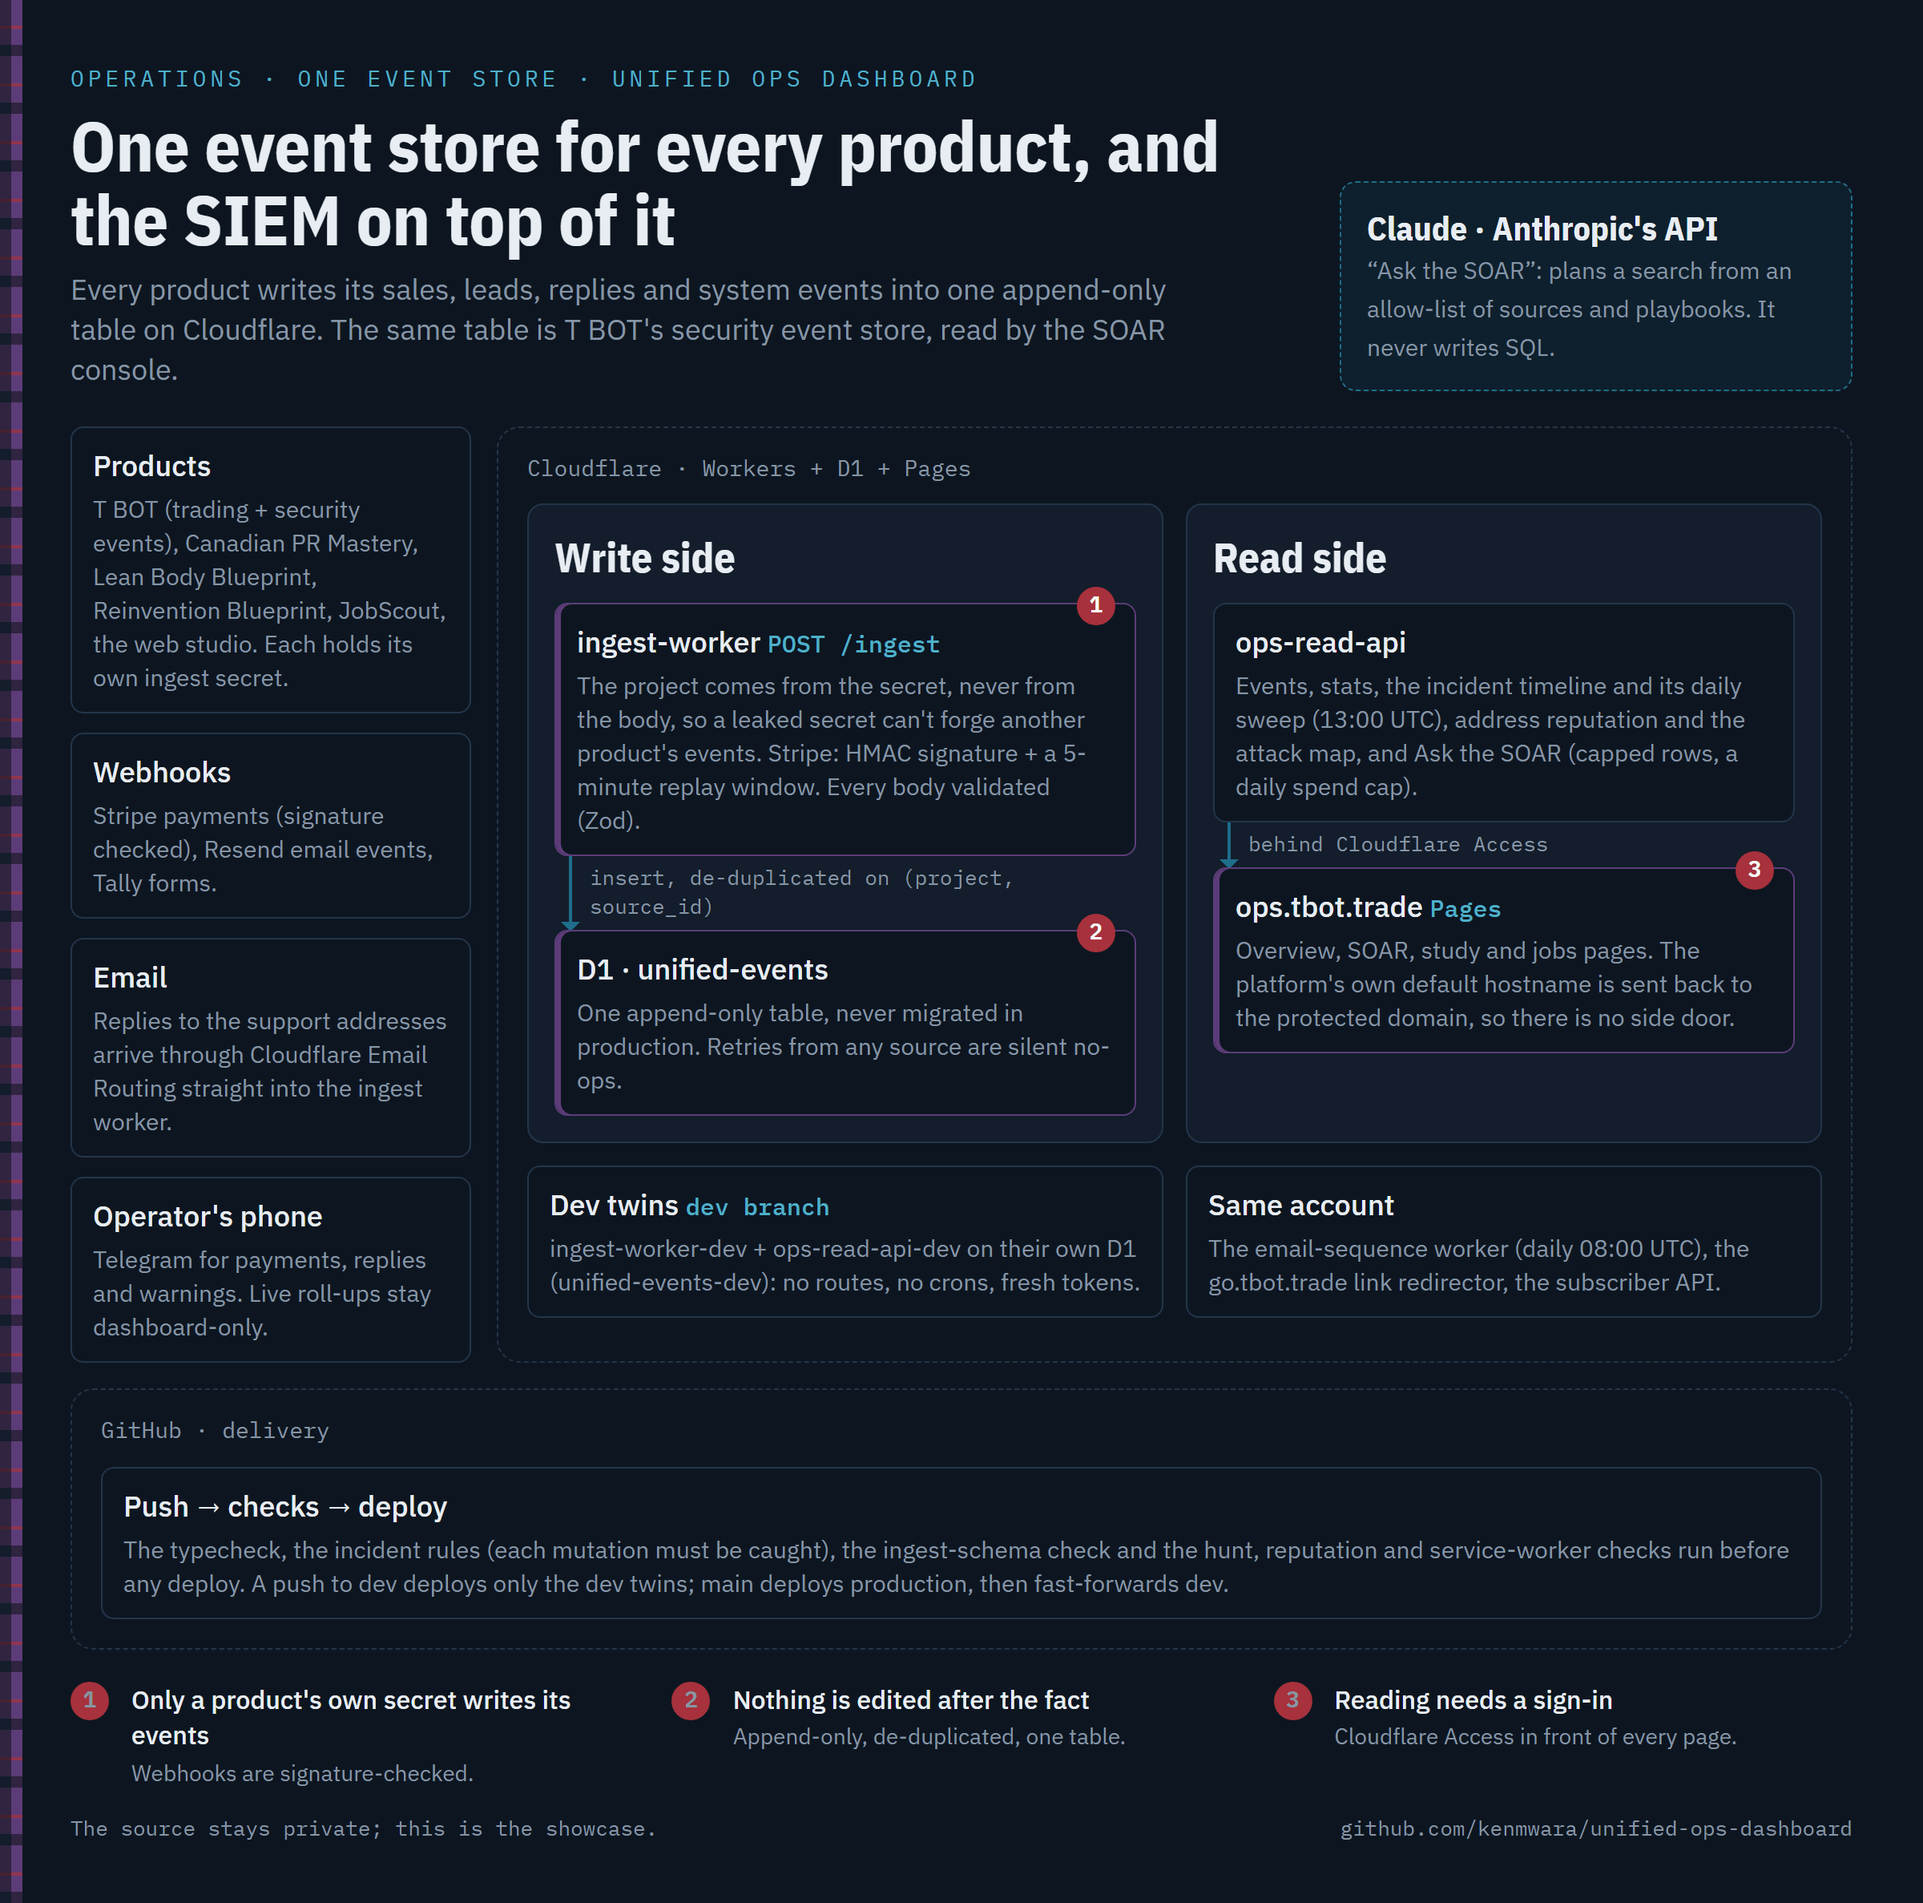
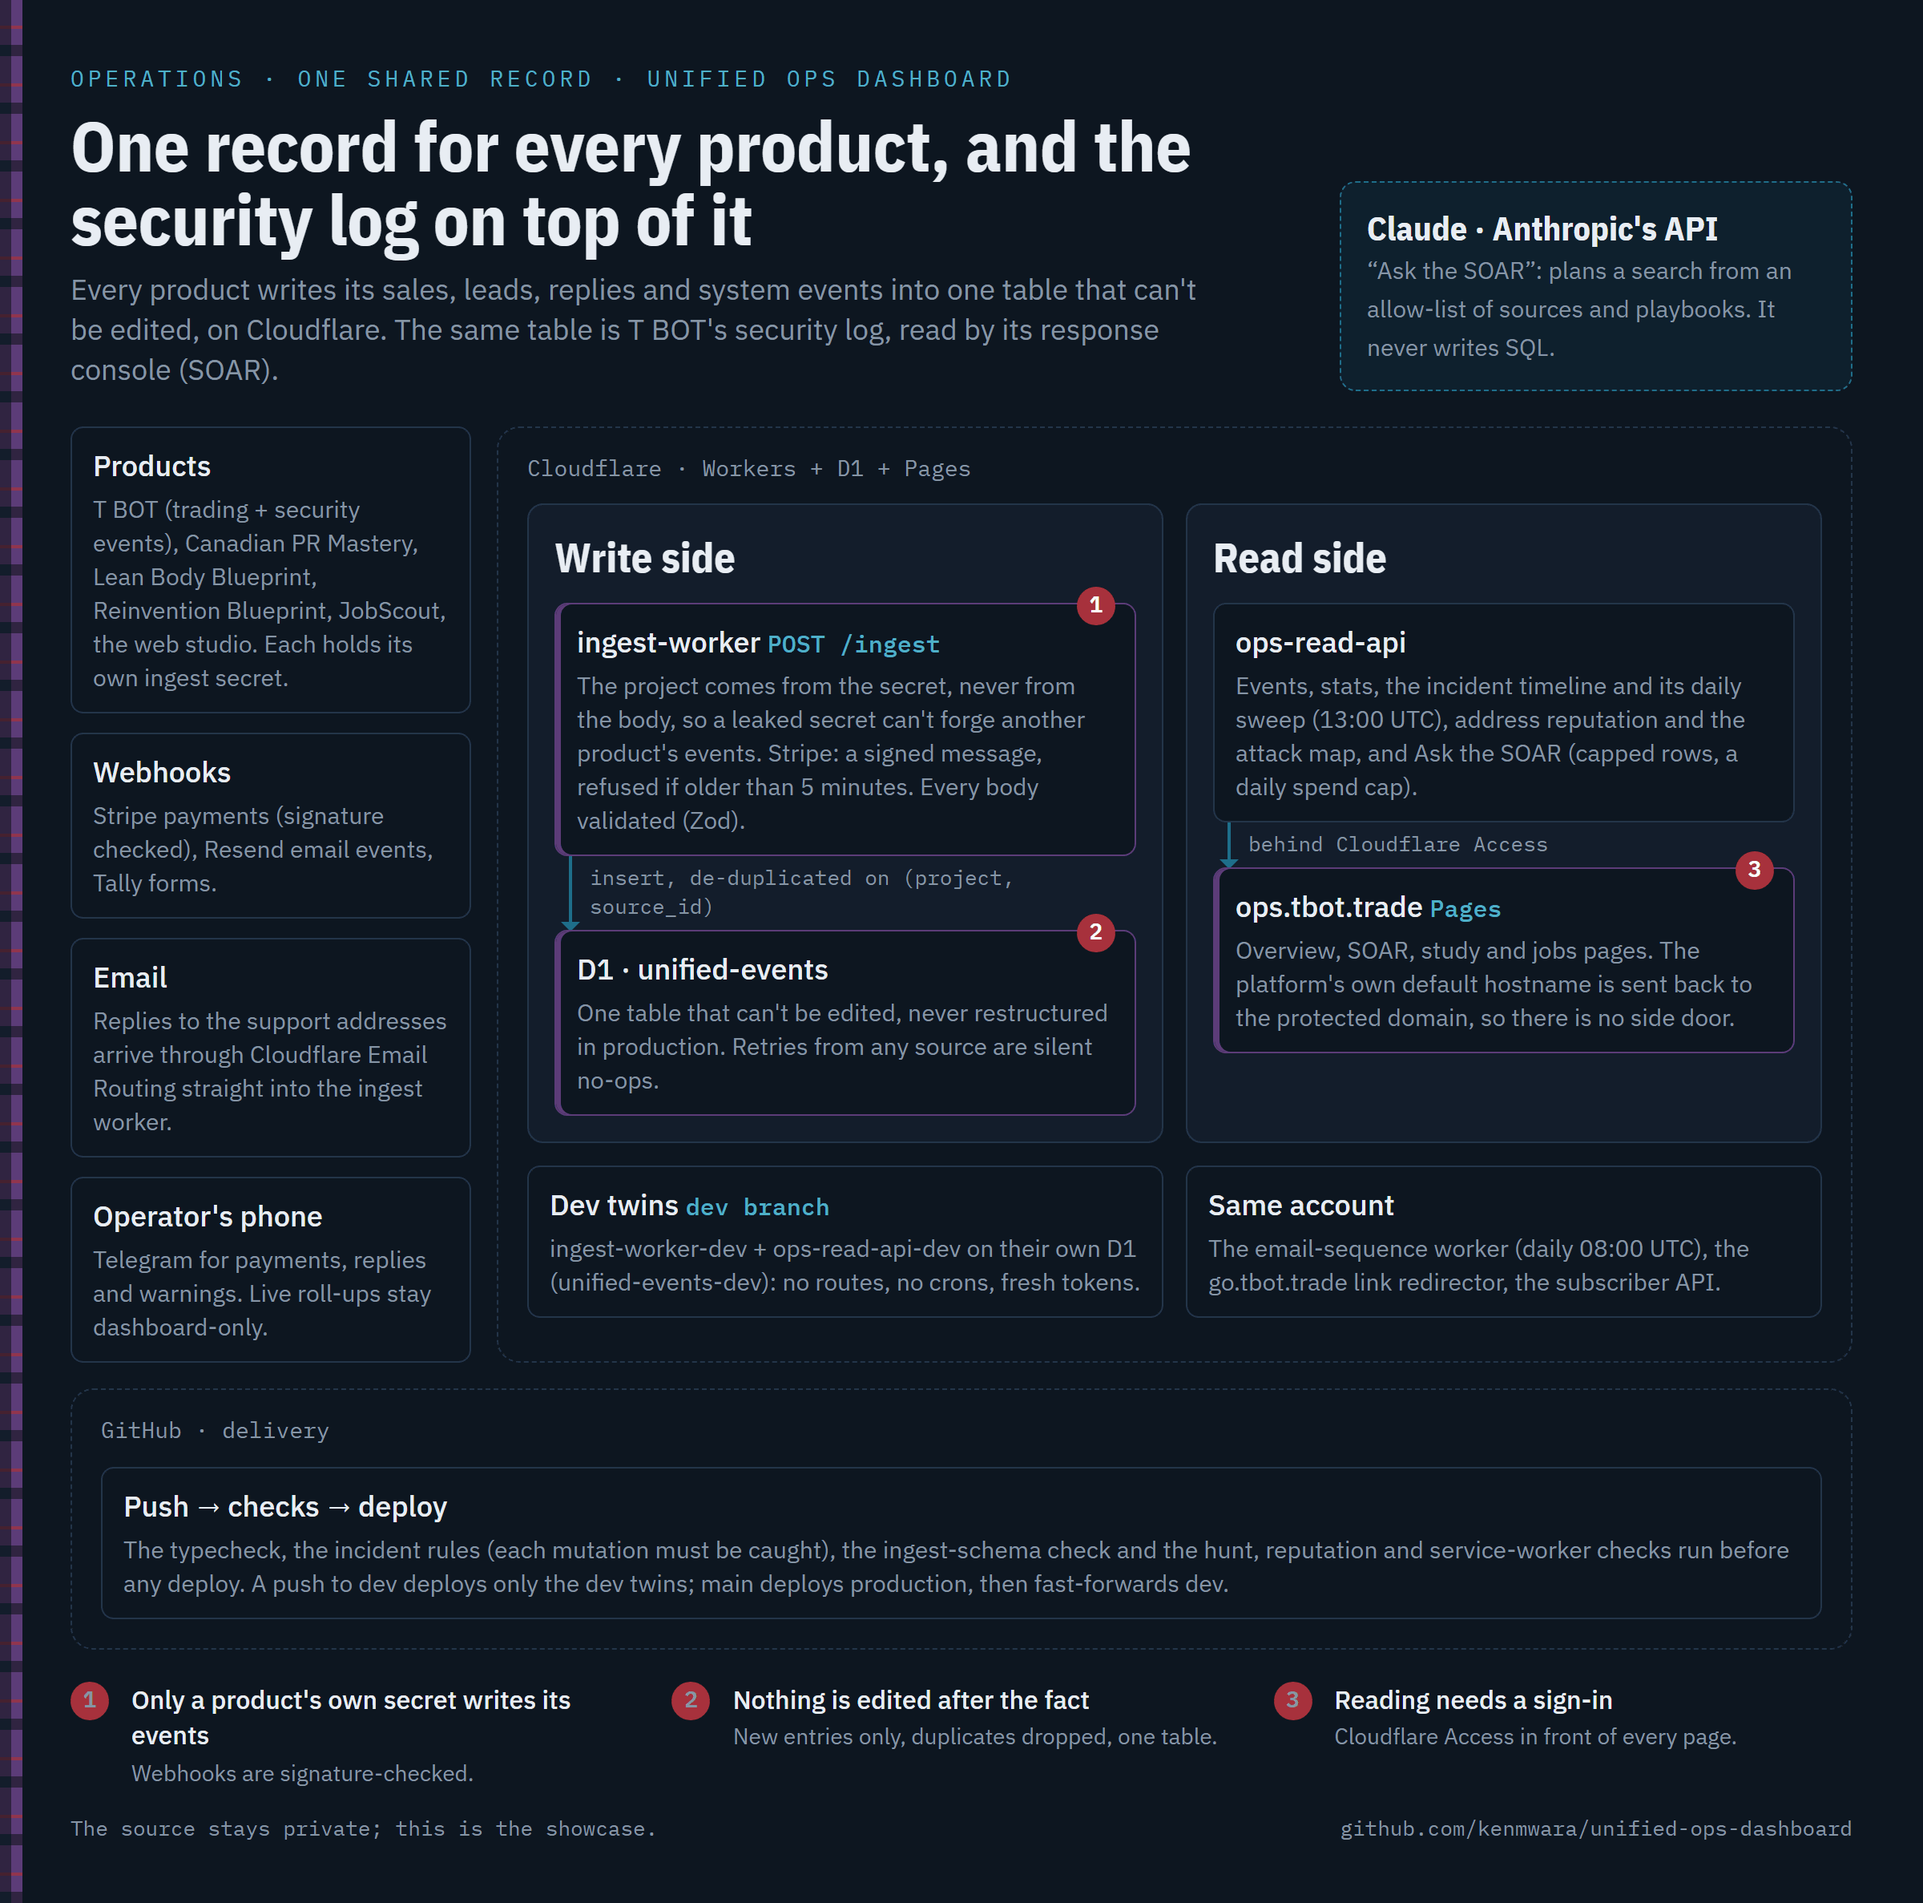
docs: plain-English architecture diagram and README wording (audit 28 Oct)

diff --git a/README.md b/README.md
@@ -31,7 +31,7 @@ The Unified Ops Dashboard is a single web app that ingests events from every pro
 ## Architecture
 
 
-<img src="images/architecture.png" width="100%" alt="Architecture diagram of the Unified Ops Dashboard. Products (T BOT, Canadian PR Mastery, Lean Body Blueprint, Reinvention Blueprint, JobScout, the web studio), webhooks (Stripe, signature-checked; Resend; Tally) and support email via Cloudflare Email Routing write to one Cloudflare ingest worker. Guard 1: the project comes from each product's own secret, never the body; Stripe needs an HMAC signature within a 5-minute window; every body is schema-validated. Guard 2: events land in one append-only D1 table, unified-events, de-duplicated on project and source id and never migrated in production; it is also T BOT's SIEM. The ops-read-api serves events, stats, incidents with a daily sweep, address reputation and Ask the SOAR, where Claude plans a search from an allow-list and never writes SQL. Guard 3: ops.tbot.trade on Pages sits behind Cloudflare Access with its default hostname redirected. Dev twins run on their own D1 with no routes or crons; GitHub runs the typecheck and the rule, schema and hunt checks before every deploy.">
+<img src="images/architecture.png" width="100%" alt="Architecture diagram of the Unified Ops Dashboard. Products (T BOT, Canadian PR Mastery, Lean Body Blueprint, Reinvention Blueprint, JobScout, the web studio), webhooks (Stripe, signature-checked; Resend; Tally) and support email via Cloudflare Email Routing write to one Cloudflare ingest worker. Guard 1: the project comes from each product's own secret, never the body; Stripe needs an HMAC signature within a 5-minute window; every body is schema-validated. Guard 2: events land in one can't-be-edited D1 table, unified-events, de-duplicated on project and source id and never migrated in production; it is also T BOT's SIEM. The ops-read-api serves events, stats, incidents with a daily sweep, address reputation and Ask the SOAR, where Claude plans a search from an allow-list and never writes SQL. Guard 3: ops.tbot.trade on Pages sits behind Cloudflare Access with its default hostname redirected. Dev twins run on their own D1 with no routes or crons; GitHub runs the typecheck and the rule, schema and hunt checks before every deploy.">
 
 ## Key design decisions
 
@@ -77,8 +77,6 @@ Events are never updated, never deleted. Corrections are new events. Total sourc
 
 ## What you see on the dashboard
 
-*(screenshots)*
-
 - **Headline cards:** 7-day revenue · 7-day leads · 7-day email opens · T BOT 7-day P&L
 - **Per-project rollups:** CPR conversion funnel (leads → opened → clicked → purchased), RBP audience growth, T BOT win-rate trend, LBB sales velocity
 - **Event stream:** chronological log of every event across all products, filterable by project and type
@@ -86,7 +84,7 @@ Events are never updated, never deleted. Corrections are new events. Total sourc
 
 ## Tech stack details
 
-- **Workers:** TypeScript, ~150 lines per worker, Zod for schema validation
+- **Workers:** TypeScript, with every incoming event checked against a fixed format (Zod)
 - **D1:** Single migration (`0001_events.sql`), never altered in production
 - **Pages:** vanilla HTML/CSS/JS (no framework — render is fast and the markup is auditable)
 - **Email webhook bridges:** Cloudflare Email Routing → custom address → Worker that parses Resend digest emails into events
@@ -112,7 +110,7 @@ The same append-only table is also T BOT's SIEM. Intrusion detection on the trad
 
 ## Planned enhancements
 
-1. **Revenue alerting** — a summary when revenue drops more than X% week-over-week (security alerting already pages on Telegram)
+1. **Revenue alerting** — a summary when revenue drops sharply from one week to the next (security alerting already pages on Telegram)
 2. **Per-product P&L view** with attribution (which ad campaign drove which lead drove which purchase)
 3. **OpenTelemetry-style trace IDs** across products → dashboard, so a `lead → email_open → clicked → purchased` chain is visible as a single timeline
 
@@ -120,7 +118,7 @@ The same append-only table is also T BOT's SIEM. Intrusion detection on the trad
 
 Most operations dashboards are attached to a single product. This platform ingests from every product into *one D1
 table* instead of running per-product analytics stacks, so onboarding a new product requires one HTTP call rather than
-new infrastructure. The ingest and read path is approximately 200 lines of Cloudflare Workers code.
+new infrastructure. Writing and reading run as two small Cloudflare Workers.
 
 ---
 
